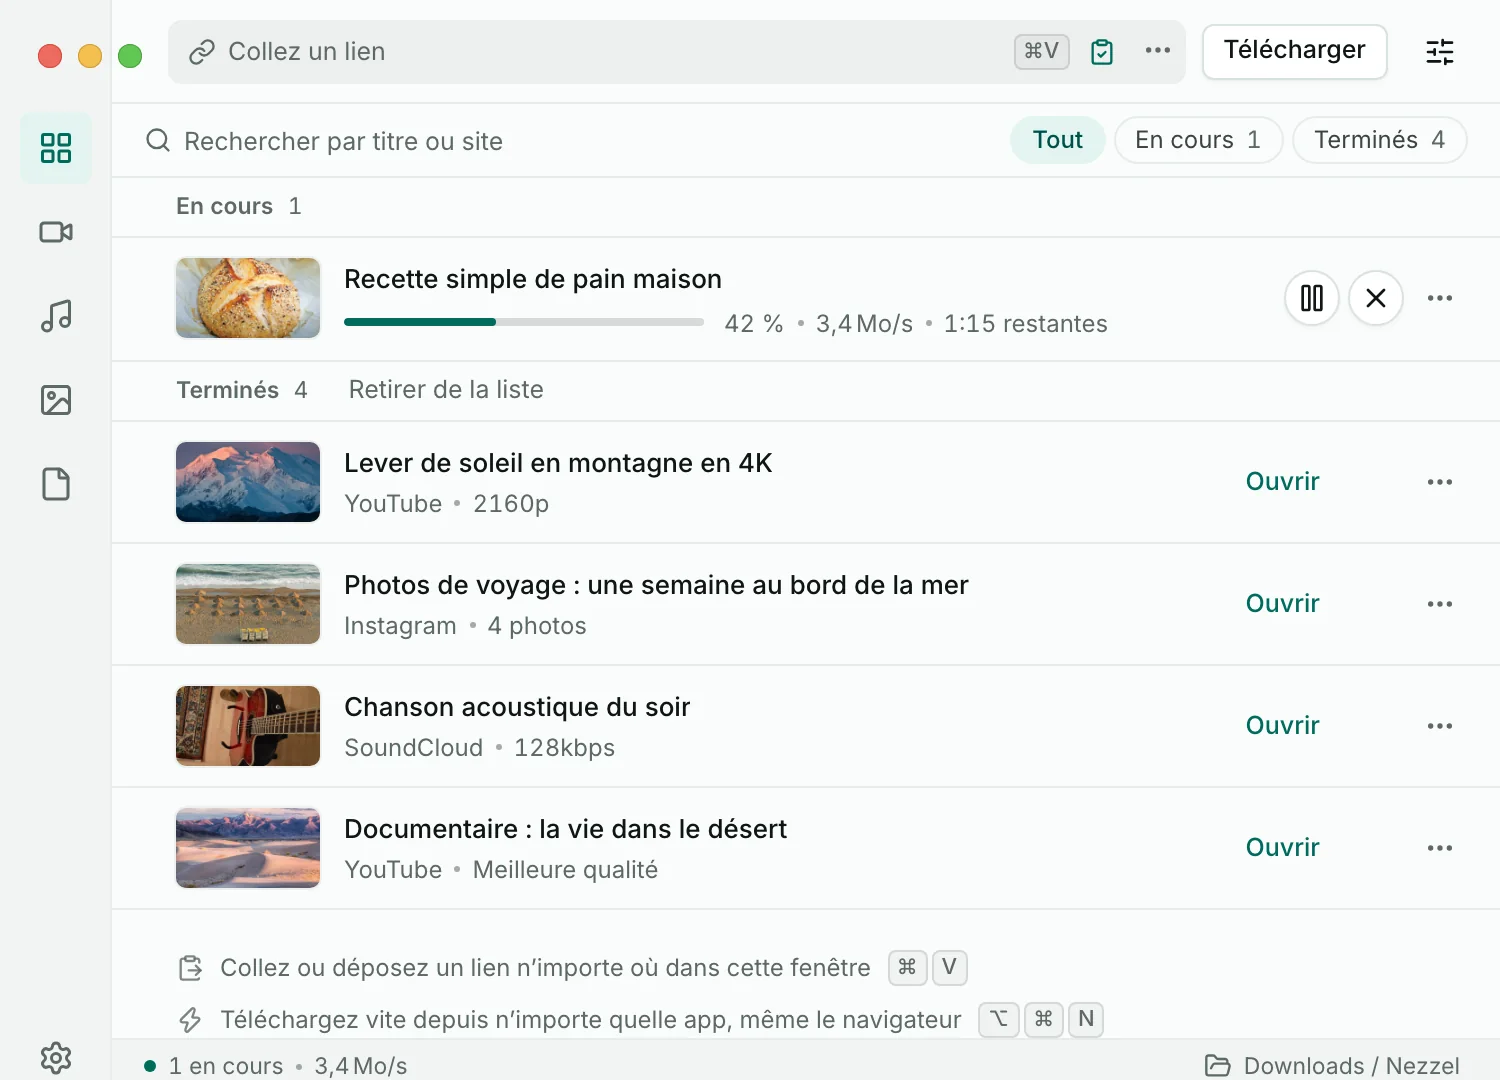
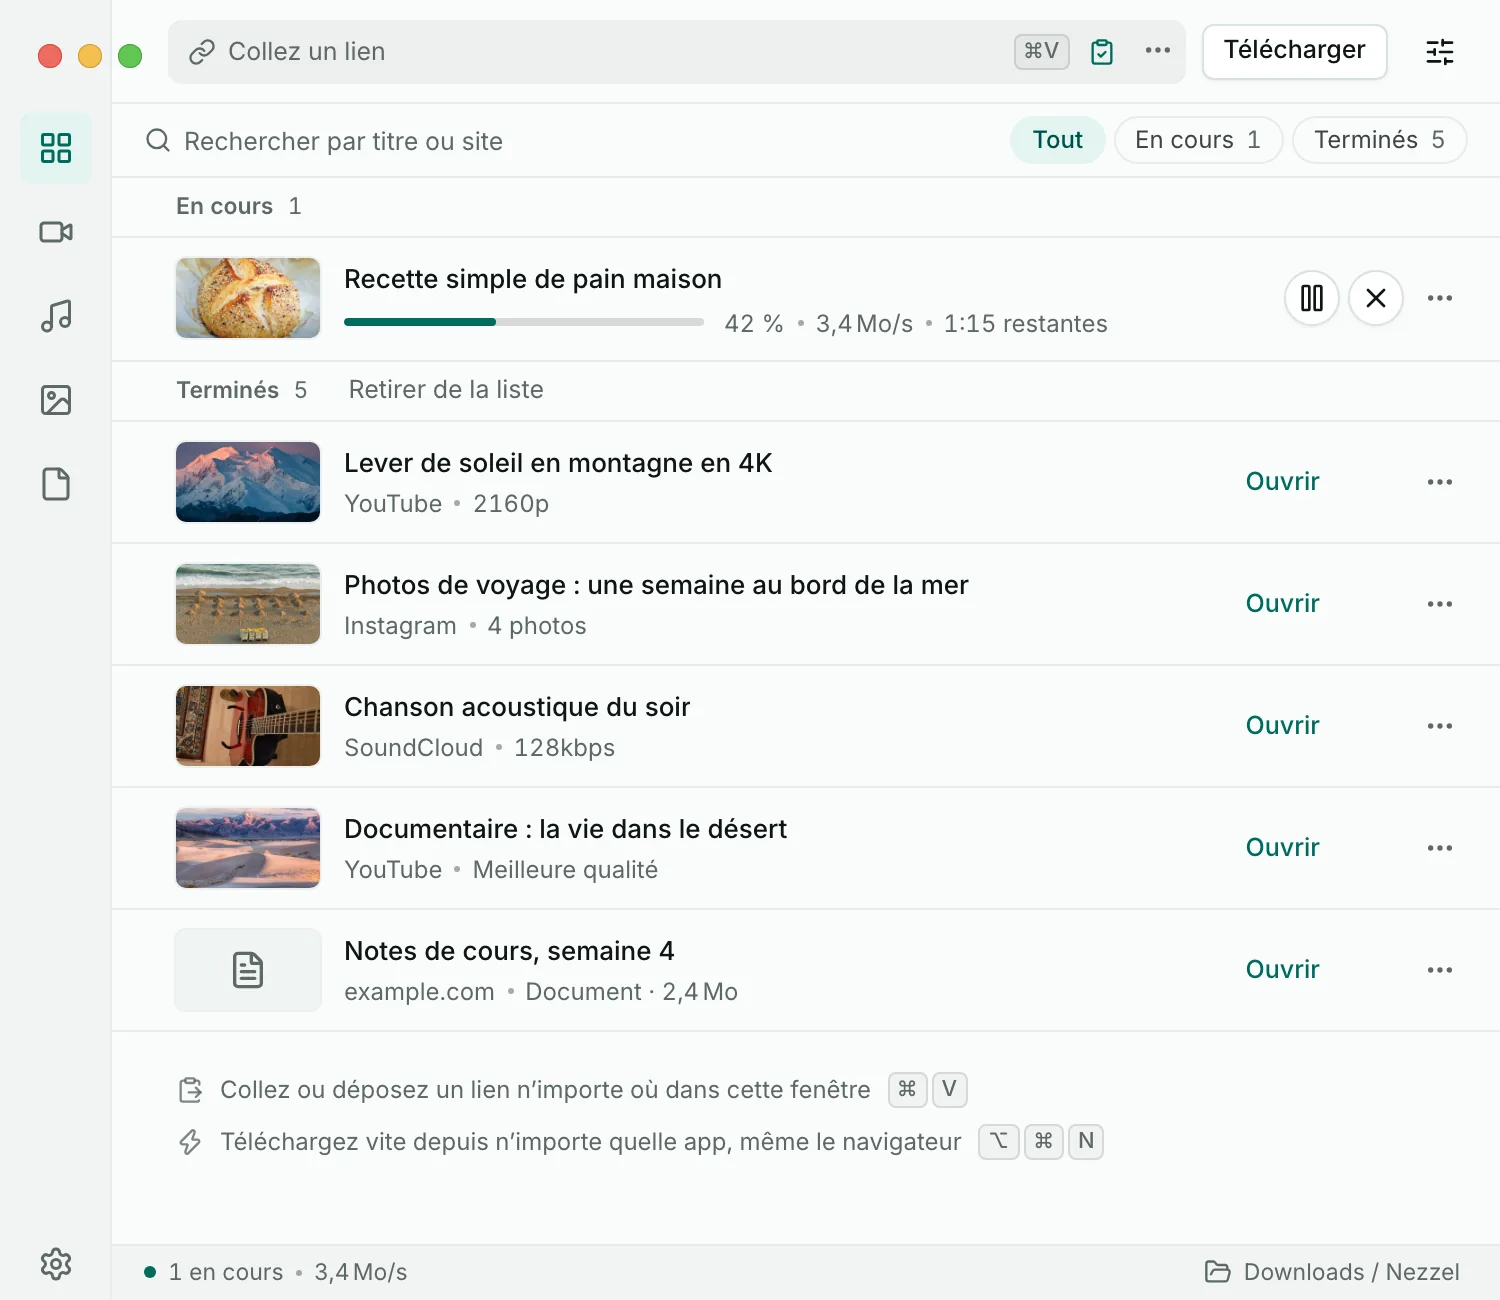
Desktop landing: hero is a full minimum-size window

diff --git a/site/desktop/index.html b/site/desktop/index.html
@@ -56,7 +56,7 @@
     <p class="dk-lede">لماك وويندوز ولينكس. انسخ الرابط فيلتقطه Nezzel، فتختار الجودة وتضغط تنزيل، ويصل الملف إلى <bdi dir="ltr">Downloads/Nezzel</bdi>. مجاني، بلا إعلانات ولا حساب.</p>
     <div class="get-wrap get-hero"><div class="get" data-get="desktop" aria-live="polite"><div class="get-row"><a class="btn btn-outline" href="/">أندرويد</a><a class="btn btn-outline" href="/download/desktop?src=desk-hero-ar&amp;os=mac">ماك</a><a class="btn btn-outline" href="/download/desktop?src=desk-hero-ar&amp;os=win">ويندوز</a><a class="btn btn-outline" href="/download/desktop?src=desk-hero-ar&amp;os=linux">لينكس</a></div></div></div>
   </div>
-  <div class="hero-fig"><picture class="th th-light"><source media="(max-width:640px)" srcset="/img/desktop/hero-ar-light-m.webp" width="960" height="822"><img class="shot" src="/img/desktop/hero-ar-light-750.webp" srcset="/img/desktop/hero-ar-light-750.webp 750w, /img/desktop/hero-ar-light-1500.webp 1500w" sizes="(min-width:1280px) 750px, (min-width:1101px) 58vw, min(92vw,750px)" width="1500" height="1080" alt="نافذة Nezzel: قائمة فيها فيديو وصفة خبز يُنزَّل بنسبة 42%، ثم فيديو 4K ومنشور صور وملف صوتي وفيديو 1080p" loading="lazy" decoding="async" fetchpriority="high"></picture><picture class="th th-dark"><source media="(max-width:640px)" srcset="/img/desktop/hero-ar-dark-m.webp" width="960" height="822"><img class="shot" src="/img/desktop/hero-ar-dark-750.webp" srcset="/img/desktop/hero-ar-dark-750.webp 750w, /img/desktop/hero-ar-dark-1500.webp 1500w" sizes="(min-width:1280px) 750px, (min-width:1101px) 58vw, min(92vw,750px)" width="1500" height="1080" alt="نافذة Nezzel: قائمة فيها فيديو وصفة خبز يُنزَّل بنسبة 42%، ثم فيديو 4K ومنشور صور وملف صوتي وفيديو 1080p" loading="lazy" decoding="async" fetchpriority="high"></picture><noscript><picture class="th-nojs"><source media="(max-width:640px)" srcset="/img/desktop/hero-ar-light-m.webp" width="960" height="822"><img class="shot" src="/img/desktop/hero-ar-light-750.webp" srcset="/img/desktop/hero-ar-light-750.webp 750w, /img/desktop/hero-ar-light-1500.webp 1500w" sizes="(min-width:1280px) 750px, (min-width:1101px) 58vw, min(92vw,750px)" width="1500" height="1080" alt="نافذة Nezzel: قائمة فيها فيديو وصفة خبز يُنزَّل بنسبة 42%، ثم فيديو 4K ومنشور صور وملف صوتي وفيديو 1080p" loading="eager" fetchpriority="high" decoding="async"></picture></noscript></div>
+  <div class="hero-fig"><picture class="th th-light"><source media="(max-width:640px)" srcset="/img/desktop/hero-ar-light-m.webp" width="960" height="822"><img class="shot" src="/img/desktop/hero-ar-light-750.webp" srcset="/img/desktop/hero-ar-light-750.webp 750w, /img/desktop/hero-ar-light-1500.webp 1500w" sizes="(min-width:1280px) 750px, (min-width:1101px) 58vw, min(92vw,750px)" width="1500" height="1300" alt="نافذة Nezzel: قائمة فيها فيديو وصفة خبز يُنزَّل بنسبة 42%، ثم فيديو 4K ومنشور صور وملف صوتي وفيديو 1080p ومستند PDF" loading="lazy" decoding="async" fetchpriority="high"></picture><picture class="th th-dark"><source media="(max-width:640px)" srcset="/img/desktop/hero-ar-dark-m.webp" width="960" height="822"><img class="shot" src="/img/desktop/hero-ar-dark-750.webp" srcset="/img/desktop/hero-ar-dark-750.webp 750w, /img/desktop/hero-ar-dark-1500.webp 1500w" sizes="(min-width:1280px) 750px, (min-width:1101px) 58vw, min(92vw,750px)" width="1500" height="1300" alt="نافذة Nezzel: قائمة فيها فيديو وصفة خبز يُنزَّل بنسبة 42%، ثم فيديو 4K ومنشور صور وملف صوتي وفيديو 1080p ومستند PDF" loading="lazy" decoding="async" fetchpriority="high"></picture><noscript><picture class="th-nojs"><source media="(max-width:640px)" srcset="/img/desktop/hero-ar-light-m.webp" width="960" height="822"><img class="shot" src="/img/desktop/hero-ar-light-750.webp" srcset="/img/desktop/hero-ar-light-750.webp 750w, /img/desktop/hero-ar-light-1500.webp 1500w" sizes="(min-width:1280px) 750px, (min-width:1101px) 58vw, min(92vw,750px)" width="1500" height="1300" alt="نافذة Nezzel: قائمة فيها فيديو وصفة خبز يُنزَّل بنسبة 42%، ثم فيديو 4K ومنشور صور وملف صوتي وفيديو 1080p ومستند PDF" loading="eager" fetchpriority="high" decoding="async"></picture></noscript></div>
 </section>
 
 <section class="sec dk-wrap" id="tour" aria-labelledby="tour-h">

diff --git a/site/fr/desktop/index.html b/site/fr/desktop/index.html
@@ -56,7 +56,7 @@
     <p class="dk-lede">Pour Mac, Windows et Linux. Copiez un lien, Nezzel le détecte, vous choisissez la qualité et cliquez sur Télécharger. Le fichier arrive dans Downloads/Nezzel. Gratuit, sans pub ni compte.</p>
     <div class="get-wrap get-hero"><div class="get" data-get="desktop" aria-live="polite"><div class="get-row"><a class="btn btn-outline" href="/fr/">Android</a><a class="btn btn-outline" href="/download/desktop?src=desk-hero-fr&amp;os=mac">Mac</a><a class="btn btn-outline" href="/download/desktop?src=desk-hero-fr&amp;os=win">Windows</a><a class="btn btn-outline" href="/download/desktop?src=desk-hero-fr&amp;os=linux">Linux</a></div></div></div>
   </div>
-  <div class="hero-fig"><picture class="th th-light"><source media="(max-width:640px)" srcset="/img/desktop/hero-fr-light-m.webp" width="960" height="788"><img class="shot" src="/img/desktop/hero-fr-light-750.webp" srcset="/img/desktop/hero-fr-light-750.webp 750w, /img/desktop/hero-fr-light-1500.webp 1500w" sizes="(min-width:1280px) 750px, (min-width:1101px) 58vw, min(92vw,750px)" width="1500" height="1080" alt="La fenêtre Nezzel : une liste avec une vidéo de recette de pain en cours à 42 %, puis une vidéo 4K, une publication de photos, un fichier audio et une vidéo 1080p" loading="lazy" decoding="async" fetchpriority="high"></picture><picture class="th th-dark"><source media="(max-width:640px)" srcset="/img/desktop/hero-fr-dark-m.webp" width="960" height="788"><img class="shot" src="/img/desktop/hero-fr-dark-750.webp" srcset="/img/desktop/hero-fr-dark-750.webp 750w, /img/desktop/hero-fr-dark-1500.webp 1500w" sizes="(min-width:1280px) 750px, (min-width:1101px) 58vw, min(92vw,750px)" width="1500" height="1080" alt="La fenêtre Nezzel : une liste avec une vidéo de recette de pain en cours à 42 %, puis une vidéo 4K, une publication de photos, un fichier audio et une vidéo 1080p" loading="lazy" decoding="async" fetchpriority="high"></picture><noscript><picture class="th-nojs"><source media="(max-width:640px)" srcset="/img/desktop/hero-fr-light-m.webp" width="960" height="788"><img class="shot" src="/img/desktop/hero-fr-light-750.webp" srcset="/img/desktop/hero-fr-light-750.webp 750w, /img/desktop/hero-fr-light-1500.webp 1500w" sizes="(min-width:1280px) 750px, (min-width:1101px) 58vw, min(92vw,750px)" width="1500" height="1080" alt="La fenêtre Nezzel : une liste avec une vidéo de recette de pain en cours à 42 %, puis une vidéo 4K, une publication de photos, un fichier audio et une vidéo 1080p" loading="eager" fetchpriority="high" decoding="async"></picture></noscript></div>
+  <div class="hero-fig"><picture class="th th-light"><source media="(max-width:640px)" srcset="/img/desktop/hero-fr-light-m.webp" width="960" height="788"><img class="shot" src="/img/desktop/hero-fr-light-750.webp" srcset="/img/desktop/hero-fr-light-750.webp 750w, /img/desktop/hero-fr-light-1500.webp 1500w" sizes="(min-width:1280px) 750px, (min-width:1101px) 58vw, min(92vw,750px)" width="1500" height="1300" alt="La fenêtre Nezzel : une liste avec une vidéo de recette de pain en cours à 42 %, puis une vidéo 4K, une publication de photos, un fichier audio, une vidéo 1080p et un document PDF" loading="lazy" decoding="async" fetchpriority="high"></picture><picture class="th th-dark"><source media="(max-width:640px)" srcset="/img/desktop/hero-fr-dark-m.webp" width="960" height="788"><img class="shot" src="/img/desktop/hero-fr-dark-750.webp" srcset="/img/desktop/hero-fr-dark-750.webp 750w, /img/desktop/hero-fr-dark-1500.webp 1500w" sizes="(min-width:1280px) 750px, (min-width:1101px) 58vw, min(92vw,750px)" width="1500" height="1300" alt="La fenêtre Nezzel : une liste avec une vidéo de recette de pain en cours à 42 %, puis une vidéo 4K, une publication de photos, un fichier audio, une vidéo 1080p et un document PDF" loading="lazy" decoding="async" fetchpriority="high"></picture><noscript><picture class="th-nojs"><source media="(max-width:640px)" srcset="/img/desktop/hero-fr-light-m.webp" width="960" height="788"><img class="shot" src="/img/desktop/hero-fr-light-750.webp" srcset="/img/desktop/hero-fr-light-750.webp 750w, /img/desktop/hero-fr-light-1500.webp 1500w" sizes="(min-width:1280px) 750px, (min-width:1101px) 58vw, min(92vw,750px)" width="1500" height="1300" alt="La fenêtre Nezzel : une liste avec une vidéo de recette de pain en cours à 42 %, puis une vidéo 4K, une publication de photos, un fichier audio, une vidéo 1080p et un document PDF" loading="eager" fetchpriority="high" decoding="async"></picture></noscript></div>
 </section>
 
 <section class="sec dk-wrap" id="tour" aria-labelledby="tour-h">

diff --git a/site/en/desktop/index.html b/site/en/desktop/index.html
@@ -56,7 +56,7 @@
     <p class="dk-lede">For Mac, Windows and Linux. Copy a link, Nezzel picks it up, you choose a quality and click Download. The file lands in Downloads/Nezzel. Free, no ads, no account.</p>
     <div class="get-wrap get-hero"><div class="get" data-get="desktop" aria-live="polite"><div class="get-row"><a class="btn btn-outline" href="/en/">Android</a><a class="btn btn-outline" href="/download/desktop?src=desk-hero-en&amp;os=mac">Mac</a><a class="btn btn-outline" href="/download/desktop?src=desk-hero-en&amp;os=win">Windows</a><a class="btn btn-outline" href="/download/desktop?src=desk-hero-en&amp;os=linux">Linux</a></div></div></div>
   </div>
-  <div class="hero-fig"><picture class="th th-light"><source media="(max-width:640px)" srcset="/img/desktop/hero-en-light-m.webp" width="960" height="788"><img class="shot" src="/img/desktop/hero-en-light-750.webp" srcset="/img/desktop/hero-en-light-750.webp 750w, /img/desktop/hero-en-light-1500.webp 1500w" sizes="(min-width:1280px) 750px, (min-width:1101px) 58vw, min(92vw,750px)" width="1500" height="1080" alt="The Nezzel window: a list with a bread recipe video downloading at 42%, then a 4K video, a photo post, an audio file and a 1080p video" loading="lazy" decoding="async" fetchpriority="high"></picture><picture class="th th-dark"><source media="(max-width:640px)" srcset="/img/desktop/hero-en-dark-m.webp" width="960" height="788"><img class="shot" src="/img/desktop/hero-en-dark-750.webp" srcset="/img/desktop/hero-en-dark-750.webp 750w, /img/desktop/hero-en-dark-1500.webp 1500w" sizes="(min-width:1280px) 750px, (min-width:1101px) 58vw, min(92vw,750px)" width="1500" height="1080" alt="The Nezzel window: a list with a bread recipe video downloading at 42%, then a 4K video, a photo post, an audio file and a 1080p video" loading="lazy" decoding="async" fetchpriority="high"></picture><noscript><picture class="th-nojs"><source media="(max-width:640px)" srcset="/img/desktop/hero-en-light-m.webp" width="960" height="788"><img class="shot" src="/img/desktop/hero-en-light-750.webp" srcset="/img/desktop/hero-en-light-750.webp 750w, /img/desktop/hero-en-light-1500.webp 1500w" sizes="(min-width:1280px) 750px, (min-width:1101px) 58vw, min(92vw,750px)" width="1500" height="1080" alt="The Nezzel window: a list with a bread recipe video downloading at 42%, then a 4K video, a photo post, an audio file and a 1080p video" loading="eager" fetchpriority="high" decoding="async"></picture></noscript></div>
+  <div class="hero-fig"><picture class="th th-light"><source media="(max-width:640px)" srcset="/img/desktop/hero-en-light-m.webp" width="960" height="788"><img class="shot" src="/img/desktop/hero-en-light-750.webp" srcset="/img/desktop/hero-en-light-750.webp 750w, /img/desktop/hero-en-light-1500.webp 1500w" sizes="(min-width:1280px) 750px, (min-width:1101px) 58vw, min(92vw,750px)" width="1500" height="1300" alt="The Nezzel window: a list with a bread recipe video downloading at 42%, then a 4K video, a photo post, an audio file, a 1080p video and a PDF document" loading="lazy" decoding="async" fetchpriority="high"></picture><picture class="th th-dark"><source media="(max-width:640px)" srcset="/img/desktop/hero-en-dark-m.webp" width="960" height="788"><img class="shot" src="/img/desktop/hero-en-dark-750.webp" srcset="/img/desktop/hero-en-dark-750.webp 750w, /img/desktop/hero-en-dark-1500.webp 1500w" sizes="(min-width:1280px) 750px, (min-width:1101px) 58vw, min(92vw,750px)" width="1500" height="1300" alt="The Nezzel window: a list with a bread recipe video downloading at 42%, then a 4K video, a photo post, an audio file, a 1080p video and a PDF document" loading="lazy" decoding="async" fetchpriority="high"></picture><noscript><picture class="th-nojs"><source media="(max-width:640px)" srcset="/img/desktop/hero-en-light-m.webp" width="960" height="788"><img class="shot" src="/img/desktop/hero-en-light-750.webp" srcset="/img/desktop/hero-en-light-750.webp 750w, /img/desktop/hero-en-light-1500.webp 1500w" sizes="(min-width:1280px) 750px, (min-width:1101px) 58vw, min(92vw,750px)" width="1500" height="1300" alt="The Nezzel window: a list with a bread recipe video downloading at 42%, then a 4K video, a photo post, an audio file, a 1080p video and a PDF document" loading="eager" fetchpriority="high" decoding="async"></picture></noscript></div>
 </section>
 
 <section class="sec dk-wrap" id="tour" aria-labelledby="tour-h">

diff --git a/site/css/dk.css b/site/css/dk.css
@@ -189,7 +189,7 @@ html:not([data-mode]) .hero-fig .th-nojs{display:block}
 :root[dir=ltr] .hero .dk-lede{line-height:1.55}
 .hero-fig{min-inline-size:0}
 .hero-fig .shot{max-inline-size:750px;border-radius:0;box-shadow:var(--shadow-shot),0 0 0 1px var(--hair)}
-@media (min-width:641px){.hero-fig .shot{border-radius:1.333% / 1.852%}
+@media (min-width:641px){.hero-fig .shot{border-radius:1.333% / 1.538%}
 }
 @media (min-width:1101px){.hero{grid-template-columns:minmax(0,.4fr) minmax(0,.6fr);gap:40px;padding-block-start:clamp(40px,5vw,72px)}
 .hero h1{font-size:clamp(44px,4vw,58px)}
